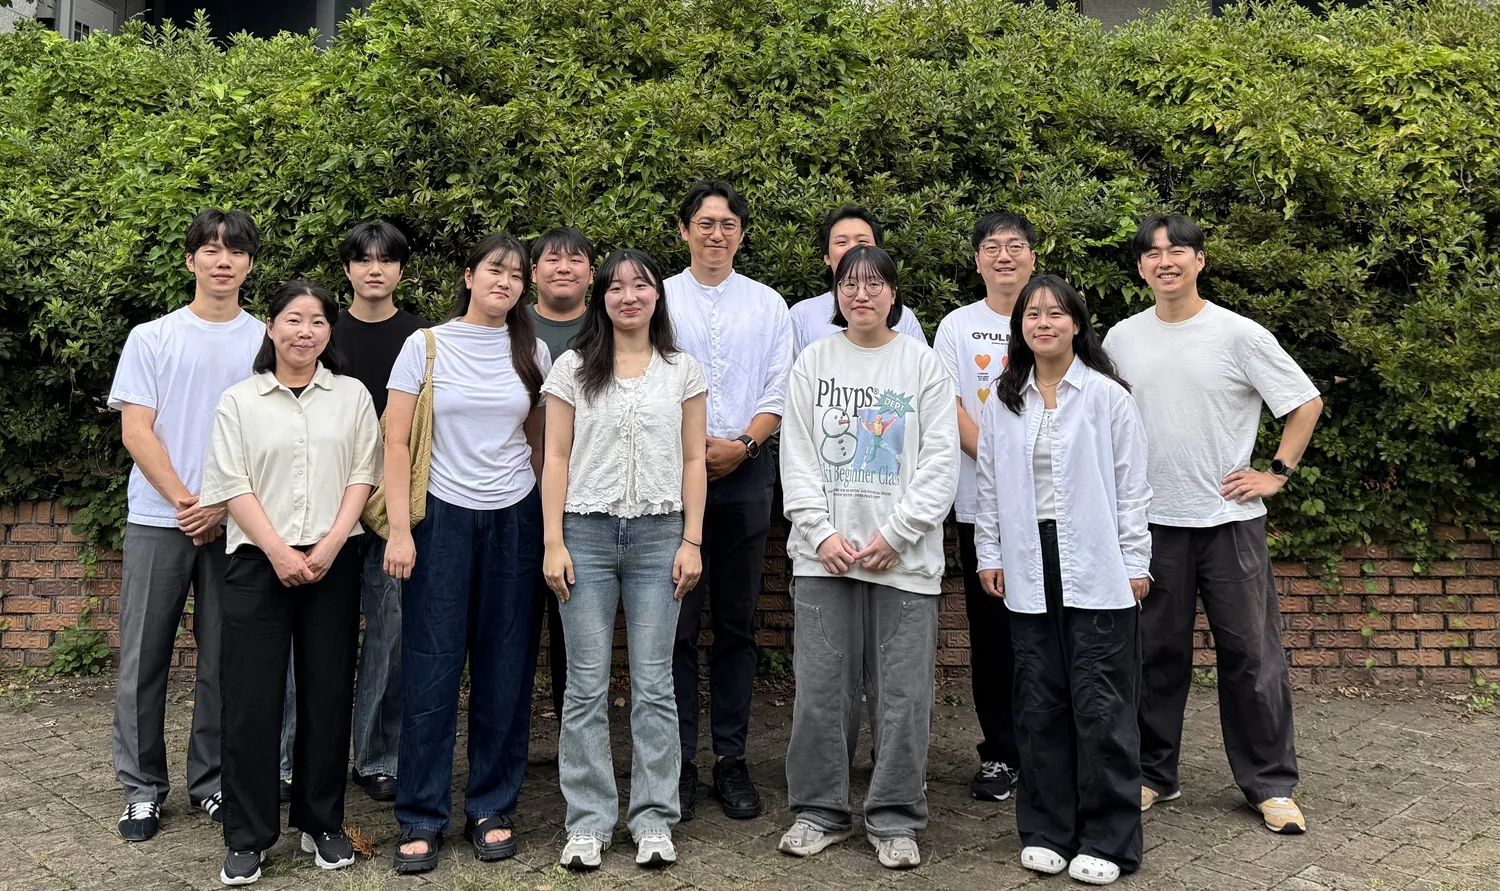
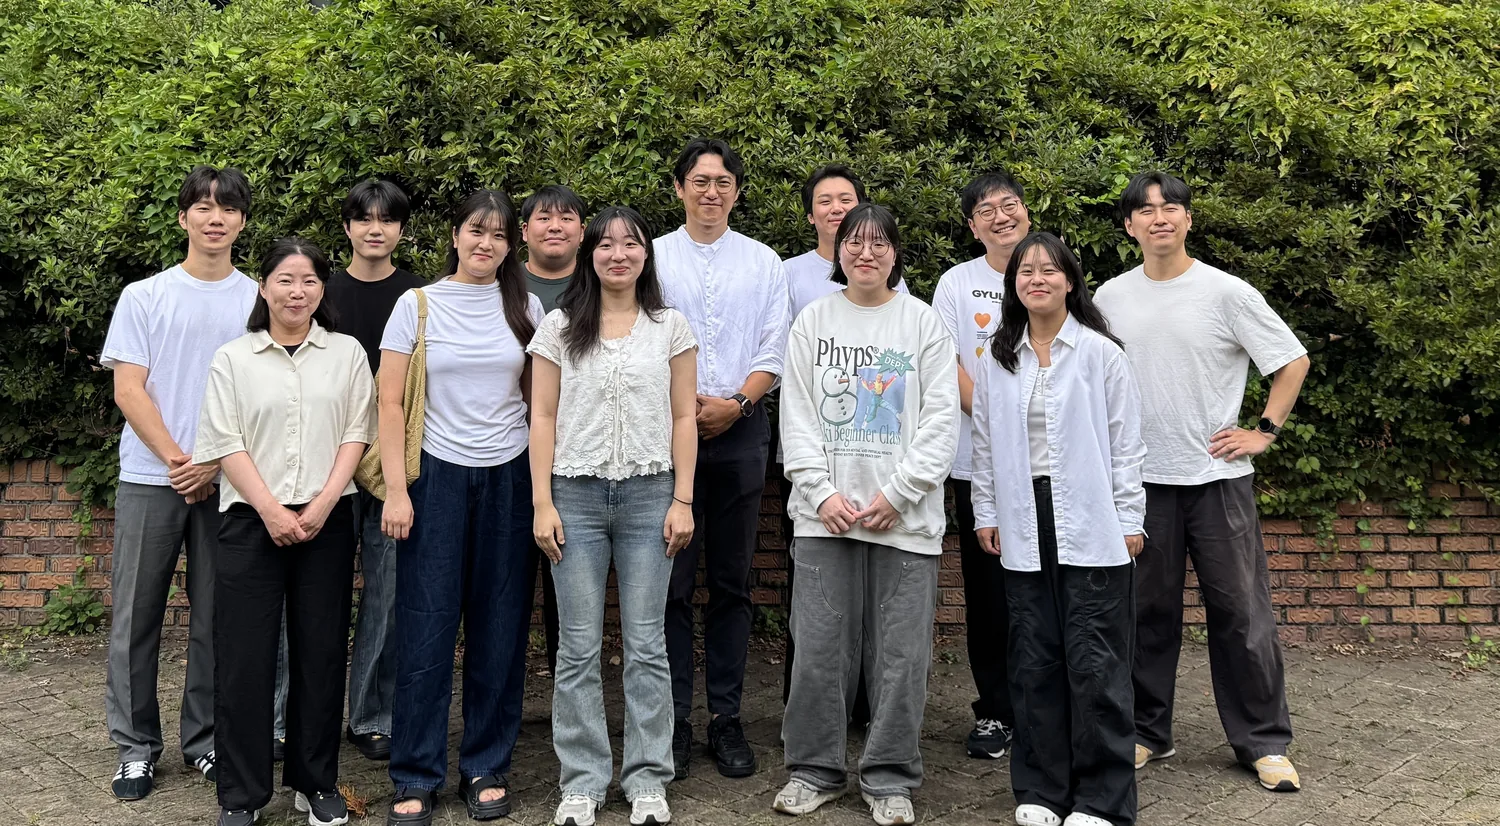
Swap gallery photo, taller and softer hero band

diff --git a/index.html b/index.html
@@ -71,7 +71,7 @@ header{position:sticky;top:0;z-index:60;background:rgba(255,255,255,.92);
 .hero::after{content:'';position:absolute;inset:0;
   background:linear-gradient(100deg,rgba(255,255,255,.96) 0%,rgba(255,255,255,.90) 46%,rgba(255,255,255,.80) 100%)}
 .hero .wrap{position:relative;z-index:2}
-.photoband{position:relative;width:100%;height:clamp(240px,34vw,440px);overflow:hidden;
+.photoband{position:relative;width:100%;height:clamp(285px,41vw,540px);overflow:hidden;
   border-top:1px solid var(--line);border-bottom:1px solid var(--line);background:var(--soft)}
 .photoband picture{display:block;width:100%;height:100%}
 .photoband img{width:100%;height:100%;object-fit:cover;object-position:center 34%;display:block}
@@ -275,7 +275,7 @@ footer a{color:#b9c8d6}
   .pub{grid-template-columns:62px 1fr;gap:13px;padding-left:12px}
   .pthumb{width:62px;height:62px;font-size:11px;border-radius:8px}
   .hero{padding:64px 0 56px}
-  .photoband{height:clamp(215px,62vw,290px)}
+  .photoband{height:clamp(245px,70vw,330px)}
   .photoband img{object-position:center 42%}
 
   .band,.pbody{padding:52px 0}
